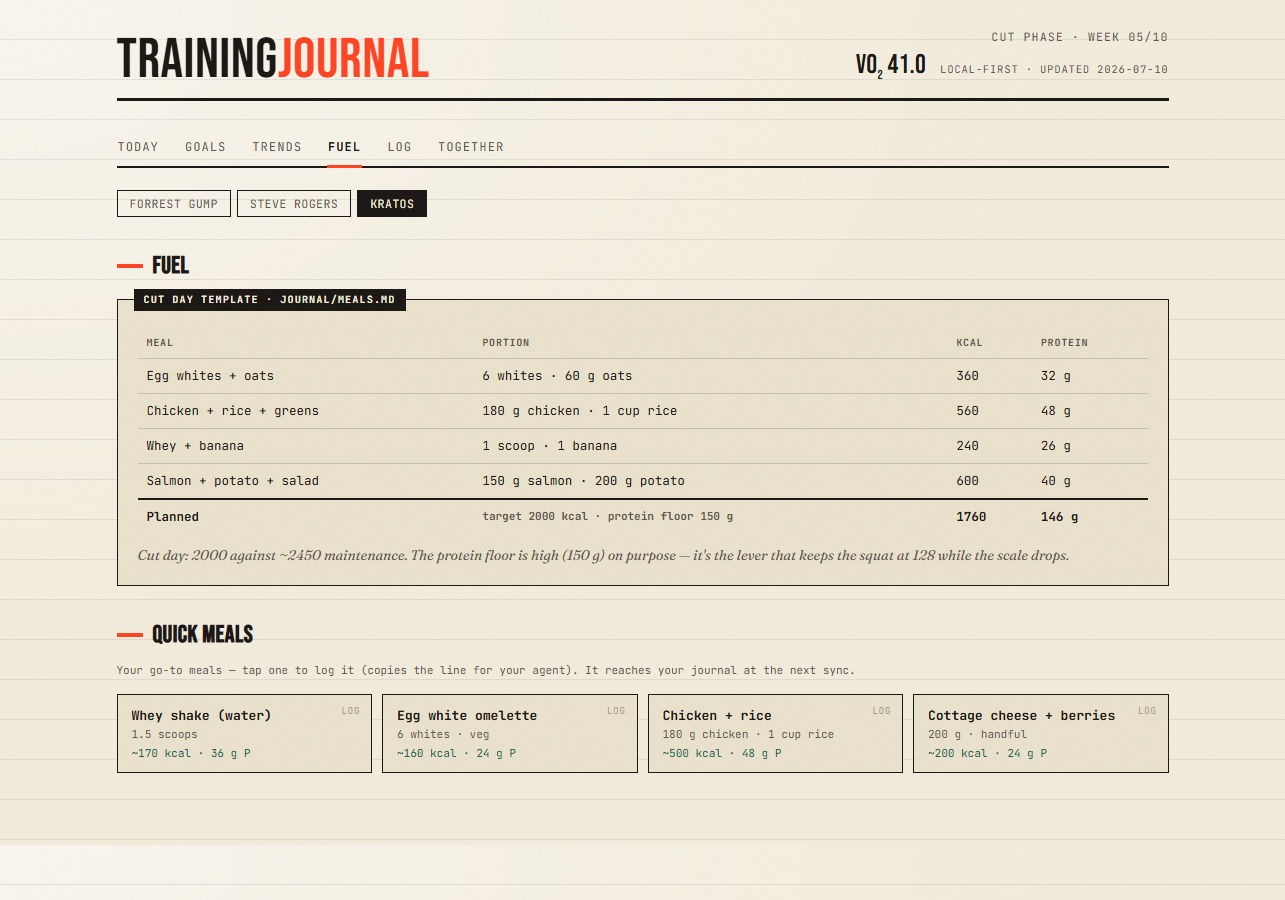
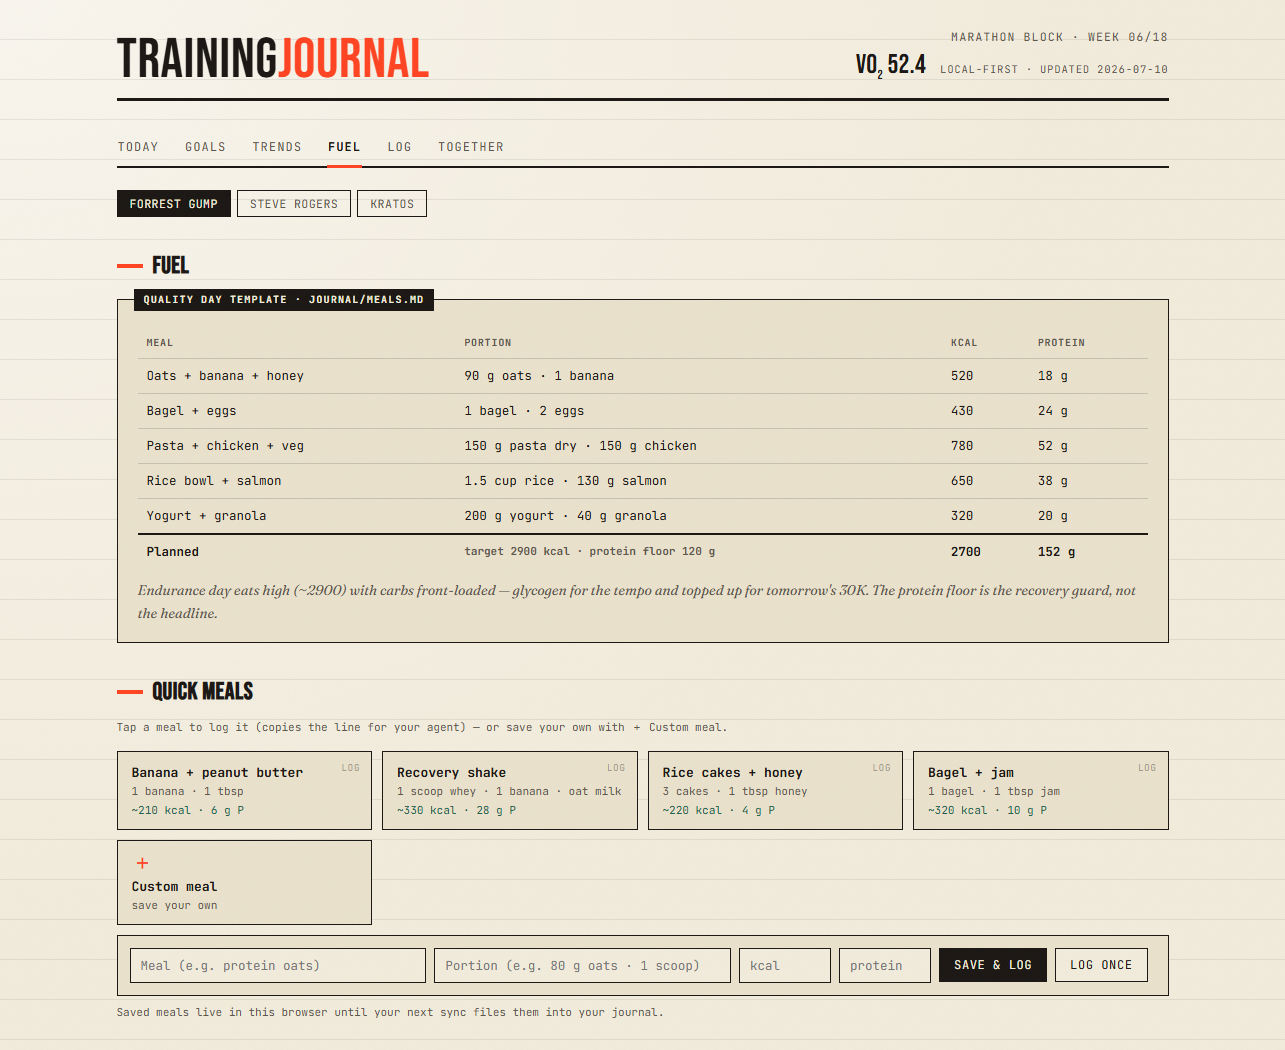
Save/log your own custom meals; lead the sidebar with "Coach says"
Custom meals:
- Quick meals now supports adding your own: a ＋ Custom meal tile opens a form
  (name, portion, kcal, protein) with "Save & log" and "Log once". Saved meals
  are cached in localStorage (per person) so they're reusable cards right away,
  each removable; logging goes through the insert-only inbox (or clipboard with
  no inbox).
- Saved meals carry save:true + a structured meal in the payload so /sync files
  them into journal/meals.md (source of truth); documented in the meal skill.
  The Fuel tab now always shows Quick meals so you can add even with none baked.

Coach note:
- Move the coach note to the top of the Today sidebar and label it "Coach says"
  — the framing the RunPlan-style layout was missing.

Refresh the Today and Fuel screenshots.

diff --git a/app/QuickMeals.tsx b/app/QuickMeals.tsx
@@ -1,33 +1,52 @@
 "use client";
 
-import { useState } from "react";
+import { useEffect, useState } from "react";
 import type { FuelMeal, Snapshot } from "./snapshot";
 
 type CellState = "idle" | "sending" | "done" | "err";
+type CustomMeal = FuelMeal & { id: string };
 
-// One-tap logging of go-to meals. With Supabase configured it inserts a
-// kind:"meal" row into the insert-only inbox (drained to your journal at the
-// next sync). Without it, it copies the meal line so you can hand it to your
-// agent — same fallback as the notebook. Never stores anything itself.
+const KEY = (pid: string) => `tj-custom-meals-${pid}`;
+const line = (m: FuelMeal) => `${m.meal} — ${m.portion} (~${m.kcal} kcal, ${m.proteinG} g protein)`;
+
+// Quick meals: one-tap logging of go-to foods, plus save-your-own custom meals.
+// Logging goes through the insert-only inbox (kind:"meal") — the same path as
+// the notebook — or copies the line when no inbox is configured. Saved custom
+// meals are cached in this browser (localStorage) so they're reusable right
+// away; a "save" flag on the logged row tells /sync to add them to
+// journal/meals.md, after which they arrive from the snapshot instead.
 export function QuickMeals({ meals, supabase, personId }: {
   meals: FuelMeal[];
   supabase: Snapshot["supabase"];
   personId: string;
 }) {
-  const [state, setState] = useState<Record<number, CellState>>({});
-  const set = (i: number, s: CellState) => setState((prev) => ({ ...prev, [i]: s }));
+  const [custom, setCustom] = useState<CustomMeal[]>([]);
+  const [cell, setCell] = useState<Record<string, CellState>>({});
+  const [adding, setAdding] = useState(false);
+  const [form, setForm] = useState({ meal: "", portion: "", kcal: "", proteinG: "" });
+  const [formState, setFormState] = useState<CellState>("idle");
 
-  async function log(i: number, m: FuelMeal) {
-    const text = `${m.meal} — ${m.portion} (~${m.kcal} kcal, ${m.proteinG} g protein)`;
+  // Read saved meals once on mount (not in the initializer) so server and first
+  // client render agree.
+  useEffect(() => {
+    try {
+      const raw = localStorage.getItem(KEY(personId));
+      setCustom(raw ? JSON.parse(raw) : []);
+    } catch { setCustom([]); }
+  }, [personId]);
 
+  function persist(next: CustomMeal[]) {
+    setCustom(next);
+    try { localStorage.setItem(KEY(personId), JSON.stringify(next)); } catch { /* private mode */ }
+  }
+
+  const mark = (k: string, s: CellState) => setCell((p) => ({ ...p, [k]: s }));
+
+  async function send(m: FuelMeal, save: boolean): Promise<boolean> {
+    const text = line(m);
     if (!supabase) {
-      try { await navigator.clipboard.writeText(text); set(i, "done"); }
-      catch { set(i, "err"); }
-      setTimeout(() => set(i, "idle"), 2500);
-      return;
+      try { await navigator.clipboard.writeText(text); return true; } catch { return false; }
     }
-
-    set(i, "sending");
     try {
       const res = await fetch(`${supabase.url}/rest/v1/inbox`, {
         method: "POST",
@@ -37,39 +56,106 @@ export function QuickMeals({ meals, supabase, personId }: {
           "Content-Type": "application/json",
           Prefer: "return=minimal",
         },
-        body: JSON.stringify({ person: personId, kind: "meal", payload: { text } }),
+        body: JSON.stringify({
+          person: personId,
+          kind: "meal",
+          payload: { text, meal: m, ...(save ? { save: true } : {}) },
+        }),
       });
-      if (!res.ok) throw new Error(`${res.status}`);
-      set(i, "done");
-    } catch {
-      set(i, "err");
-    }
-    setTimeout(() => set(i, "idle"), 2500);
+      return res.ok;
+    } catch { return false; }
   }
 
-  const label = (s: CellState | undefined) =>
-    s === "sending" ? "sending…"
-    : s === "done" ? (supabase ? "logged ✓" : "copied ✓")
-    : s === "err" ? "retry"
-    : "log";
+  async function logCard(k: string, m: FuelMeal) {
+    mark(k, "sending");
+    mark(k, (await send(m, false)) ? "done" : "err");
+    setTimeout(() => mark(k, "idle"), 2500);
+  }
+
+  function removeCustom(id: string) {
+    persist(custom.filter((c) => c.id !== id));
+  }
+
+  async function submit(save: boolean) {
+    const kcalStr = form.kcal.trim();
+    const proteinStr = form.proteinG.trim();
+    const kcal = Number(kcalStr);
+    const proteinG = Number(proteinStr);
+    if (
+      !form.meal.trim() || !form.portion.trim() ||
+      kcalStr === "" || proteinStr === "" ||
+      !Number.isFinite(kcal) || !Number.isFinite(proteinG) || kcal < 0 || proteinG < 0
+    ) {
+      setFormState("err");
+      setTimeout(() => setFormState("idle"), 2000);
+      return;
+    }
+    const meal: FuelMeal = { meal: form.meal.trim(), portion: form.portion.trim(), kcal, proteinG };
+    setFormState("sending");
+    const ok = await send(meal, save);
+    if (ok && save) persist([...custom, { ...meal, id: `${Date.now()}` }]);
+    setFormState(ok ? "done" : "err");
+    if (ok) setForm({ meal: "", portion: "", kcal: "", proteinG: "" });
+    setTimeout(() => setFormState("idle"), 2500);
+  }
+
+  const cardLabel = (s: CellState | undefined) =>
+    s === "sending" ? "sending…" : s === "done" ? (supabase ? "logged ✓" : "copied ✓") : s === "err" ? "retry" : "log";
+
+  const cards: { m: FuelMeal; key: string; id?: string }[] = [
+    ...meals.map((m, i) => ({ m, key: `s${i}` })),
+    ...custom.map((m) => ({ m, key: `c${m.id}`, id: m.id })),
+  ];
 
   return (
-    <div className="quick-grid">
-      {meals.map((m, i) => (
-        <button
-          key={i}
-          className="quick-meal"
-          data-state={state[i] ?? "idle"}
-          onClick={() => log(i, m)}
-          disabled={state[i] === "sending"}
-          aria-label={`Log ${m.meal}`}
-        >
-          <span className="qm-state">{label(state[i])}</span>
-          <span className="qm-name">{m.meal}</span>
-          <span className="qm-portion">{m.portion}</span>
-          <span className="qm-macros">~{m.kcal} kcal · {m.proteinG} g P</span>
+    <>
+      <div className="quick-grid">
+        {cards.map(({ m, key, id }) => (
+          <div className="quick-meal-wrap" key={key}>
+            <button
+              className="quick-meal"
+              data-state={cell[key] ?? "idle"}
+              onClick={() => logCard(key, m)}
+              disabled={cell[key] === "sending"}
+              aria-label={`Log ${m.meal}`}
+            >
+              <span className="qm-state">{cardLabel(cell[key])}</span>
+              <span className="qm-name">{m.meal}</span>
+              <span className="qm-portion">{m.portion}</span>
+              <span className="qm-macros">~{m.kcal} kcal · {m.proteinG} g P{id ? " · custom" : ""}</span>
+            </button>
+            {id && (
+              <button className="qm-remove" onClick={() => removeCustom(id)} aria-label={`Remove ${m.meal}`}>×</button>
+            )}
+          </div>
+        ))}
+        <button className="quick-meal quick-add" data-open={adding} onClick={() => setAdding((a) => !a)}>
+          <span className="qm-plus">＋</span>
+          <span className="qm-name">Custom meal</span>
+          <span className="qm-portion">save your own</span>
         </button>
-      ))}
-    </div>
+      </div>
+
+      {adding && (
+        <form className="quick-form" onSubmit={(e) => { e.preventDefault(); submit(true); }}>
+          <input aria-label="Meal name" placeholder="Meal (e.g. protein oats)" value={form.meal}
+            onChange={(e) => setForm({ ...form, meal: e.target.value })} />
+          <input aria-label="Portion" placeholder="Portion (e.g. 80 g oats · 1 scoop)" value={form.portion}
+            onChange={(e) => setForm({ ...form, portion: e.target.value })} />
+          <input aria-label="kcal" type="number" inputMode="numeric" placeholder="kcal" value={form.kcal}
+            onChange={(e) => setForm({ ...form, kcal: e.target.value })} />
+          <input aria-label="Protein grams" type="number" inputMode="numeric" placeholder="protein g" value={form.proteinG}
+            onChange={(e) => setForm({ ...form, proteinG: e.target.value })} />
+          <button type="submit" className="qf-save" disabled={formState === "sending"}>Save &amp; log</button>
+          <button type="button" className="qf-once" disabled={formState === "sending"} onClick={() => submit(false)}>Log once</button>
+          <span className="qf-state" data-state={formState}>
+            {formState === "sending" ? "…" : formState === "done" ? (supabase ? "logged ✓" : "copied ✓") : formState === "err" ? "check the fields" : ""}
+          </span>
+        </form>
+      )}
+      <p className="hint" style={{ marginTop: 8 }}>
+        Saved meals live in this browser until your next sync files them into your journal.
+      </p>
+    </>
   );
 }

diff --git a/app/page.tsx b/app/page.tsx
@@ -443,6 +443,11 @@ export default function Page() {
           </div>
 
           <aside className="dash-side">
+            <div className="coach">
+              <div className="tag">Coach says</div>
+              <div className="pin" />
+              <p>&ldquo;{d.coachNote}&rdquo;</p>
+            </div>
             {readiness?.gauge && <ReadinessGauge metric={readiness} />}
             {hrv && (
               <TrendChart
@@ -461,10 +466,6 @@ export default function Page() {
                 <SourcesPanel sources={d.sources} />
               </div>
             )}
-            <div className="coach">
-              <div className="pin" />
-              <p>&ldquo;{d.coachNote}&rdquo;</p>
-            </div>
           </aside>
         </div>
       )}
@@ -558,16 +559,12 @@ export default function Page() {
             <p className="hint">No meal plan for {person.name} yet — log meals or run /initiate.</p>
           )}
 
-          {d.quickMeals && d.quickMeals.length > 0 && (
-            <>
-              <h2 className="section">Quick meals</h2>
-              <p className="hint" style={{ margin: "-4px 0 0" }}>
-                Your go-to meals — tap one to log it
-                {snapshot.supabase ? " to the inbox" : " (copies the line for your agent)"}. It reaches your journal at the next sync.
-              </p>
-              <QuickMeals meals={d.quickMeals} supabase={snapshot.supabase} personId={person.id} />
-            </>
-          )}
+          <h2 className="section">Quick meals</h2>
+          <p className="hint" style={{ margin: "-4px 0 0" }}>
+            Tap a meal to log it{snapshot.supabase ? " to the inbox" : " (copies the line for your agent)"} — or
+            save your own with ＋ Custom meal.
+          </p>
+          <QuickMeals meals={d.quickMeals ?? []} supabase={snapshot.supabase} personId={person.id} />
         </>
       )}
 

diff --git a/app/globals.css b/app/globals.css
@@ -64,6 +64,25 @@ table.fuel-table tr.total td { border-top: 2px solid var(--ink); border-bottom: 
 .quick-meal[data-state="done"] .qm-state { color: var(--track); opacity: 1; font-weight: 700; }
 .quick-meal[data-state="err"] { border-color: var(--flare); }
 .quick-meal[data-state="err"] .qm-state { color: var(--flare); opacity: 1; font-weight: 700; }
+.quick-meal-wrap { position: relative; display: flex; }
+.quick-meal-wrap .quick-meal { flex: 1; }
+.qm-remove { position: absolute; top: 6px; right: 7px; width: 18px; height: 18px; line-height: 1; padding: 0; border: 1px solid var(--line); background: var(--paper); color: var(--ink-soft); font-family: var(--mono); font-size: 13px; cursor: pointer; z-index: 1; }
+.qm-remove:hover { border-color: var(--flare); color: var(--flare); }
+.quick-add { align-items: flex-start; justify-content: center; border-style: dashed; background: transparent; }
+.quick-add .qm-plus { font-family: var(--disp); font-size: 22px; line-height: 1; color: var(--flare); }
+.quick-add[data-open="true"] { border-style: solid; background: var(--paper2); }
+
+/* Custom-meal form */
+.quick-form { display: flex; flex-wrap: wrap; gap: 8px; align-items: center; margin-top: 10px; padding: 12px; border: 1px solid var(--ink); background: var(--paper2); }
+.quick-form input { font-family: var(--mono); font-size: 12.5px; padding: 8px 10px; border: 1px solid var(--ink); background: var(--paper); color: var(--ink); }
+.quick-form input[type="number"] { width: 92px; }
+.quick-form input:not([type="number"]) { flex: 1 1 180px; min-width: 0; }
+.quick-form button { font-family: var(--mono); font-size: 12px; padding: 8px 14px; border: 1px solid var(--ink); cursor: pointer; text-transform: uppercase; letter-spacing: .05em; }
+.quick-form .qf-save { background: var(--ink); color: var(--paper); }
+.quick-form .qf-once { background: var(--paper); color: var(--ink); }
+.quick-form button:disabled { opacity: .5; cursor: default; }
+.quick-form .qf-state { font-family: var(--mono); font-size: 11px; color: var(--track); }
+.quick-form .qf-state[data-state="err"] { color: var(--flare); }
 
 /* Tabs — underline nav */
 .tabs { display: flex; gap: 24px; flex-wrap: wrap; border-bottom: 2px solid var(--ink); margin: 0 0 22px; }

diff --git a/README.md b/README.md
@@ -49,12 +49,13 @@ and top-goal progress:
 
 ![Together tab comparing three athletes side by side](docs/screenshots/together.png)
 
-**Fuel** — the day's meal plan totalled against the calorie target and
-protein floor, plus **Quick meals**: your go-to foods as one-tap log buttons
-(they post a `meal` entry to the inbox, or copy the line when there's no
-inbox):
+**Fuel** — the day's meal plan totalled against the calorie target and protein
+floor, plus **Quick meals**: your go-to foods as one-tap log buttons, and
+**save-your-own** custom meals (cached in the browser, filed into your journal
+at the next sync). Logging posts a `meal` entry to the inbox, or copies the
+line when there's no inbox:
 
-![Cut-day meal plan with totals and one-tap quick meals](docs/screenshots/fuel-cutting.png)
+![Fuel tab: meal plan totals, one-tap quick meals, and the save-your-own custom meal form](docs/screenshots/fuel-cutting.png)
 
 **Trends** — sparse-by-design charts, each captioned with the input it came
 from and its last sync:

diff --git a/.claude/skills/meal/SKILL.md b/.claude/skills/meal/SKILL.md
@@ -30,6 +30,16 @@ row (or copies the line when no inbox is configured). This is just the
 low-friction path into the same meal-logging flow above — resolve, estimate,
 and reconcile the drained entries exactly as with any other meal.
 
+**Custom meals saved from the browser.** The Fuel tab also lets the user add
+their own meal (name, portion, kcal, protein). It is cached in that browser's
+localStorage so it's reusable immediately, and logged like any meal — but the
+inbox payload carries `save: true` and a structured `meal` object. On drain,
+when you see `save: true`: add that meal to the journal/meals.md **Library**
+(and to the **Quick meals** shortlist if it's a genuine repeat), so the next
+snapshot serves it from the source of truth and the browser cache is no longer
+needed. Treat the user's entered numbers as their own estimate; don't override
+them, but flag anything implausible.
+
 ## The day's picture
 
 When asked (or at sync), compute: